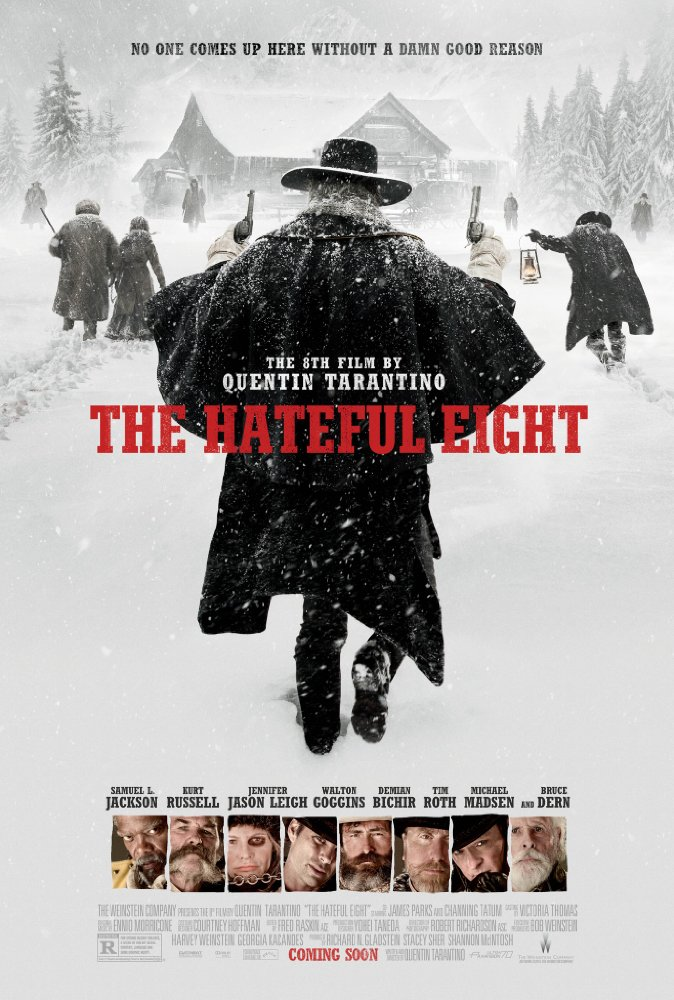
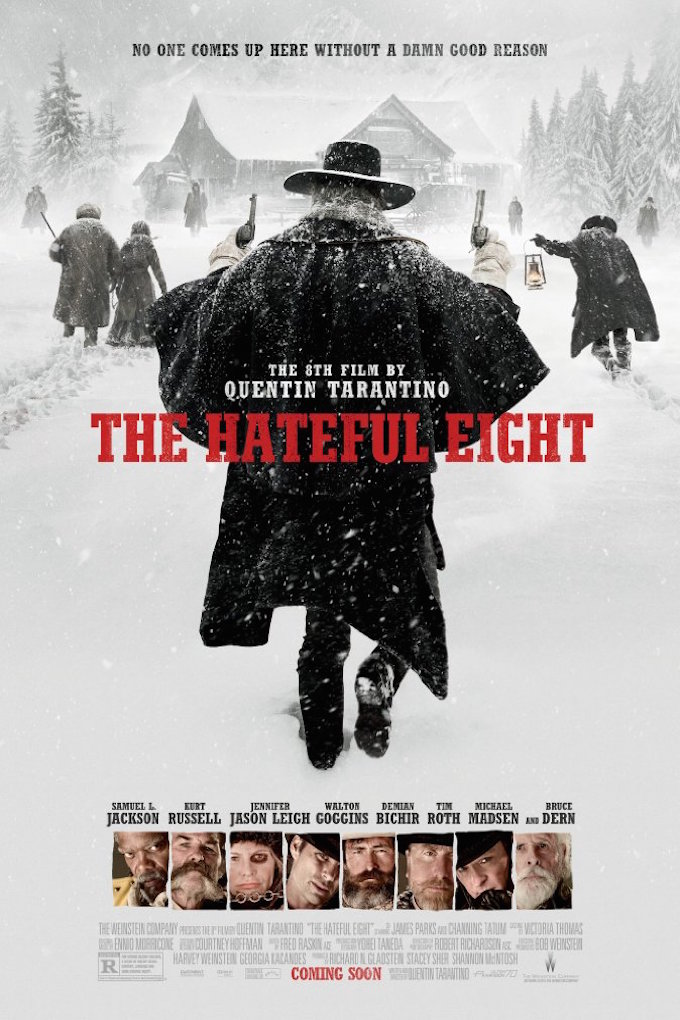
Agora ta bacaninha responsivo. (:

diff --git a/filmes.css b/filmes.css
@@ -65,7 +65,7 @@
         margin: auto;
         }
 
-        @media screen and (min-width: 1024px){
+     
        
         .col_1,.col_2,.col_3,.col_4,.col_5,.col_6,.col_7,.col_8,.col_9,.col_10,.col_11,.col_12{
         float:right;
@@ -88,8 +88,71 @@
            width: 22.5%;     
         }
 
-        .col_4{ 
-            width: 30%; 
+        @media screen and (min-width: 1024px){
+            .col_4{ 
+                width: 30%; 
+            }
+            img {
+                width: 350px;
+                height 500px;
+                display: block;
+                margin-left: auto;
+                margin-right: auto;
+                opacity: 1; 
+                filter: alpha(opacity=100);
+                border-radius: 10px;
+
+                -webkit-transition: width 2s, height 2s;
+                transition: width 2s, height 2s;
+
+             }
+        }
+
+         @media screen and (max-width: 1370px){
+             img {
+                width: 250px;
+                height 400px;
+                display: block;
+                margin-left: auto;
+                margin-right: auto;
+                opacity: 1; 
+                filter: alpha(opacity=100);
+                border-radius: 10px;
+
+                -webkit-transition: width 2s, height 2s;
+                transition: width 2s, height 2s;
+
+             }
+
+         }
+        
+         @media screen and (min-width: 648px) and (max-width: 1023px){
+            .col_4{ 
+                width: 48%; 
+            }
+             
+
+
+        }
+         @media screen and (max-width: 647px){
+            .col_4{ 
+                width: 90%; 
+            }
+              img {
+                width: 300px;
+                height 450px;
+                display: block;
+                margin-left: auto;
+                margin-right: auto;
+                opacity: 1; 
+                filter: alpha(opacity=100);
+                border-radius: 10px;
+
+                -webkit-transition: width 2s, height 2s;
+                transition: width 2s, height 2s;
+
+             }
+
         }
 
         .col_5{ 
@@ -122,7 +185,7 @@
             width: 90%; 
         }
       
-        }
+        
         
 
 
@@ -149,26 +212,18 @@
         p{
          font-family: 'Rajdhani', sans-serif;
          text-align: center;
+         font-size: 1.3em;
 
             
         }
 
+        p.ano{
+            font-size: 1.15em;
+        }
+
        
 
-        img {
-        width: 350px;
-        height 500px;
-        display: block;
-        margin-left: auto;
-        margin-right: auto;
-        opacity: 1; 
-        filter: alpha(opacity=100);
-        border-radius: 10px;
-
-        -webkit-transition: width 2s, height 2s;
-        transition: width 2s, height 2s;
-
-        }
+        
 
         img:hover {
         opacity: 0.5;

diff --git a/index.html b/index.html
@@ -10,39 +10,39 @@
             <div id="header">
             <h1>GALERIA DA SCOFIELD</h1>
             <h2>Galeria de alguns dos filmes de Clap Scofield</h2>
-            <a href="http://google.com" target="blank" title="Sobre mim"> <img align="left"  src="1 (68).png"/></a>
+            <!--<a href="http://google.com" target="blank" title="Sobre mim"> <img align="left"  src="1 (68).png"/></a>-->
          </div>
            <div class="container">
-            <div class="col_4">
+            <div class="col_4" >
                 <img src="img/caes_de_aluguel.jpg" alt="">
                 <p><b>Cães de Aluguel</b></p>
-                <p>1992</p>
+                <p class="ano">1992</p>
             </div>
            
             <div class="col_4">
                 <img src="img/pulp_fiction.jpg" alt="">
                 <p><b>Pulp Fiction: Tempos de Violência</b></p>
-                <p>1994</p>
+                <p class="ano">1994</p>
             </div>
             <div class="col_4">
                 <img src="img/kill_bill.jpg" alt="">
                 <p><b>Kill Bill: Volume 1</b></p>
-                <p>2003</p>
+                <p class="ano">2003</p>
             </div>
             <div class="col_4">
                 <img src="img/bastardos_inglorios.jpg" alt="">
                 <p><b>Bastardos Inglórios</b></p>
-                <p>2009</p>
+                <p class="ano">2009</p>
             </div>
             <div class="col_4">
                 <img src="img/django_livre.jpg" alt="">
                 <p><b>Django Livre</b></p>
-                <p>2012</p>
+                <p class="ano">2012</p>
             </div>
             <div class="col_4">
                 <img src="img/os_oito_odiados.jpg" alt="">
                 <p><b>Os Oito Odiados</b></p>
-                <p>2015</p>
+                <p class="ano">2015</p>
             </div>
         </div>
         <footer class="col_12">
